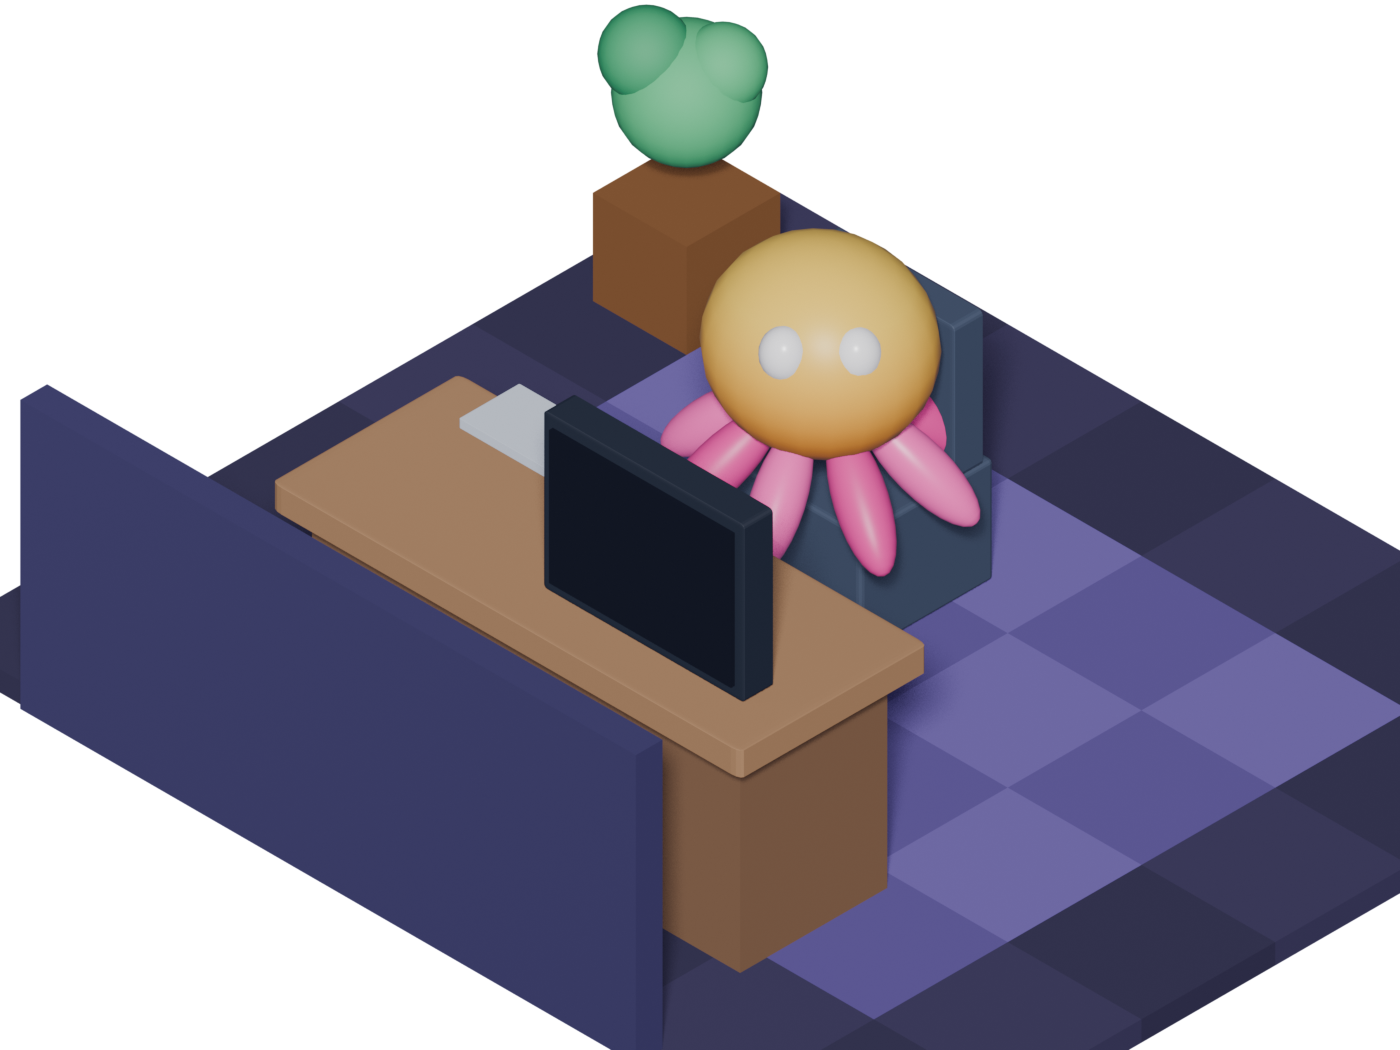
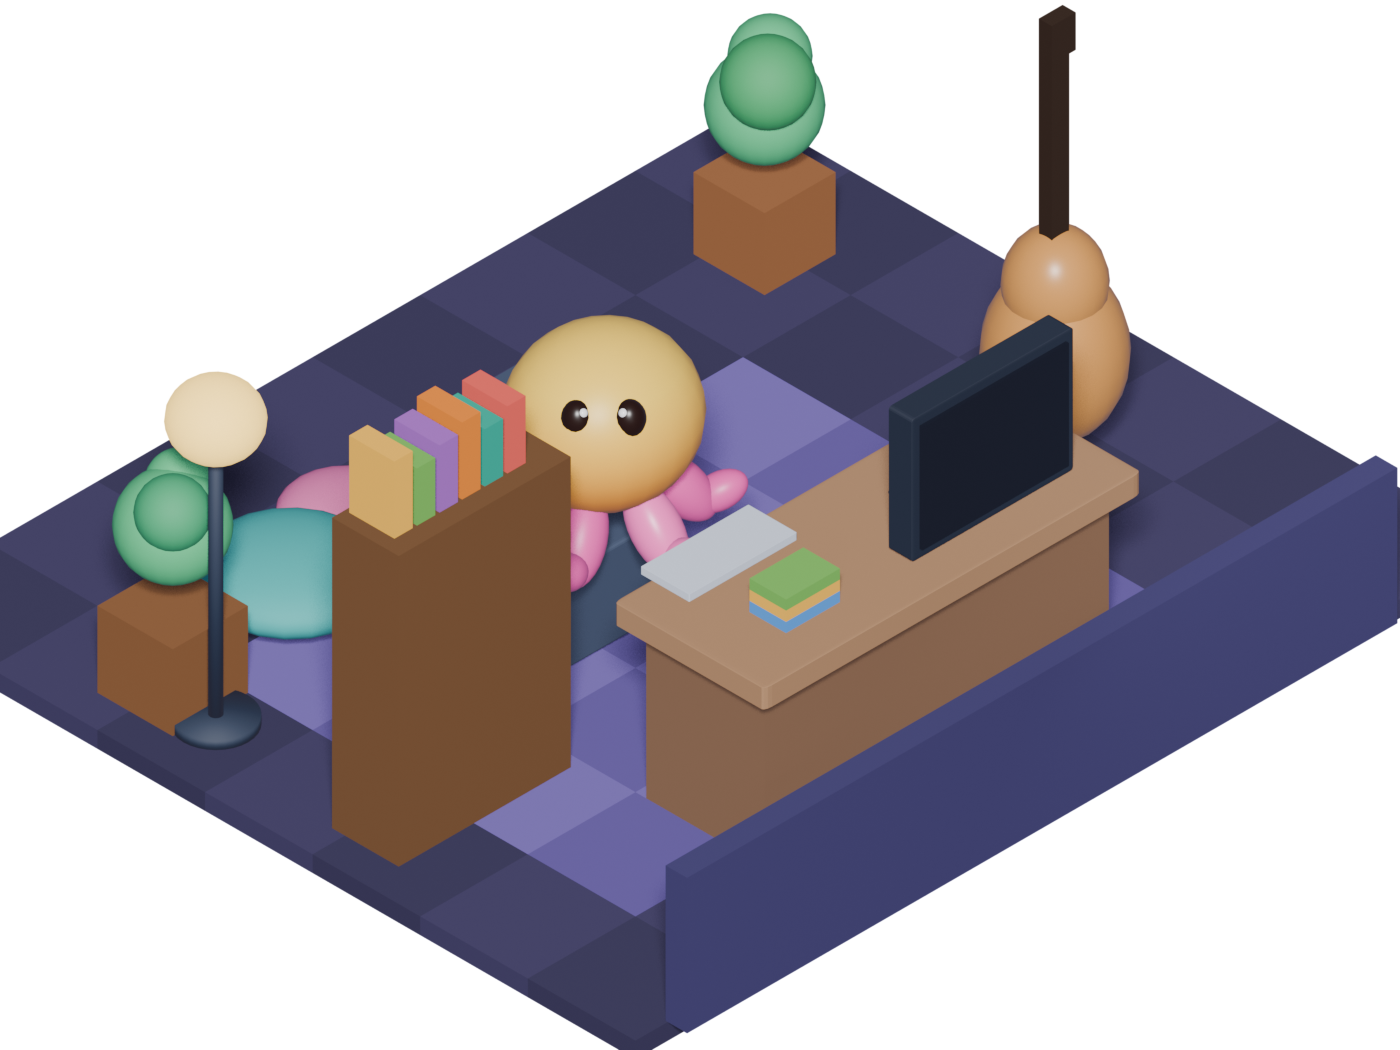
feat(webui): офис развёрнут + досуг-вещи + осьминог ближе к маскоту
По фидбэку Дмитрия:
- Комната «наоборот»: зеркальный изо-вид (CAM_OFFSET=(-9,-9,9)),
  низкий бэкдроп вместо высокой стены (не загораживает).
- Больше вещей для досуга: книжный шкаф с цветными книгами, гитара,
  торшер, два пуфика на круглом коврике, второе растение, стопка книг
  и кружка на столе. Всё свободностоящее в видимом интерьере (на стене
  не вешал — при зеркале она бы загораживала/смотрела бы наружу).
- Осьминог ближе к маскоту: голова крупнее, глаза тёмные с белым
  бликом (а не белые), 6 пухлых розовых щупалец с подкрученными
  кончиками (2 сегмента). Свет ярче (3 источника).
- Монитор/экран не двигал → coords.json пересчитан, живой оверлей
  (контент/глоу/мысли) совпадает с экраном в новом ракурсе.

Проверено Playwright: офис в WebUI, оверлей «браузер» лёг на монитор,
0 ошибок консоли. Статика — рестарт не нужен.

diff --git a/tools/office_blender.py b/tools/office_blender.py
@@ -105,21 +105,52 @@ def ellipsoid(name, loc, scale, quat, m):
     o.data.materials.append(m); bpy.ops.object.shade_smooth()
     return o
 
-# ── пол (воксельные плитки 7×6) + ковёр ──
+# направление камеры (зеркальный «наоборот» изо-вид) — задаётся ОДИН раз, юзают осьминог+камера
+CAM_OFFSET = Vector((-9, -9, 9))
+camdir = Vector(CAM_OFFSET); camdir.normalize()
+
+def cyl(name, x, y, z, r, h, m, rot=None):
+    bpy.ops.mesh.primitive_cylinder_add(radius=r, depth=h, location=(x, y, z))
+    o = bpy.context.active_object; o.name = name
+    if rot is not None:
+        o.rotation_euler = rot
+    o.data.materials.append(m); bpy.ops.object.shade_smooth()
+    return o
+
+# ── пол 8×7 + ковёр ──
 floorA, floorB = mat("floorA", "#3b3553"), mat("floorB", "#332f49")
 rugA, rugB = mat("rugA", "#6b5aa0"), mat("rugB", "#5a4b8a")
-for gx in range(7):
-    for gy in range(6):
+for gx in range(8):
+    for gy in range(7):
         rug = 1 <= gx <= 5 and 1 <= gy <= 4
         c = (rugA if (gx + gy) % 2 else rugB) if rug else (floorA if (gx + gy) % 2 else floorB)
         box(f"t{gx}_{gy}", gx, gy, -0.12 if rug else -0.15, 1, 1, 0.12 if rug else 0.15, c)
 
-# ── короткий бэкдроп-стенка с окном (без огромных стен — диорама на градиенте) ──
+# ── низкий бэкдроп с окном (фон, не загораживает) ──
 wall = mat("wall", "#3c3760")
-box("wallBack", 0.8, -0.18, 0, 4.6, 0.2, 2.0, wall)
-box("window", 3.5, -0.04, 0.7, 1.6, 0.08, 0.95, mat("win", "#8fc0f0", rough=0.2, emit=1.8))
-box("winBar", 4.28, -0.05, 0.7, 0.06, 0.1, 0.95, wall)
-box("winBarH", 3.5, -0.05, 1.17, 1.6, 0.1, 0.06, wall)
+box("wallBack", 0.3, -0.18, 0, 6.6, 0.2, 1.25, wall)
+box("window", 3.3, -0.04, 0.4, 1.5, 0.08, 0.68, mat("win", "#8fc0f0", rough=0.2, emit=1.8))
+box("winBarH", 3.3, -0.05, 0.72, 1.5, 0.1, 0.06, wall)
+
+bookCols = ["#e2574c", "#4a90d9", "#f6b73c", "#6ab04c", "#9b59b6", "#e67e22", "#16a085"]
+
+# ── книжный шкаф со множеством книг (свободностоящий, левый угол) ──
+shelfM = mat("shelf", "#6a4a2c")
+box("shelf", 0.3, 2.5, 0, 1.6, 0.62, 2.5, shelfM)
+for z in (0.9, 1.7):
+    box(f"shp{z}", 0.32, 2.52, z, 1.56, 0.6, 0.07, mat(f"shp{z}", "#50361c"))
+for r, z in enumerate((0.95, 1.75, 2.5)):          # 3 ряда книг (верхний — на крыше)
+    for i in range(6):
+        box(f"bk{r}_{i}", 0.42 + i * 0.21, 2.66, z, 0.17, 0.42, 0.46 + ((i + r) % 3) * 0.08,
+            mat(f"bk{r}{i}", bookCols[(i + r) % 7]))
+
+# ── гитара, прислонённая (правый угол интерьера) ──
+gBody = mat("guitarBody", "#c98a44", rough=0.35); gNeck = mat("guitarNeck", "#2f2113")
+ellipsoid("guitarBody", (6.5, 2.6, 1.0), (0.5, 0.5, 0.66), None, gBody)
+ellipsoid("guitarWaist", (6.5, 2.6, 1.55), (0.36, 0.36, 0.42), None, gBody)
+box("guitarNeck", 6.42, 2.55, 1.95, 0.16, 0.12, 1.5, gNeck)
+box("guitarHead", 6.4, 2.53, 3.4, 0.22, 0.12, 0.3, gNeck)
+cyl("guitarHole", 6.5, 2.6, 1.05, 0.13, 0.04, mat("ghole", "#3a2a18"), rot=(0, 0, 0))
 
 # ── стол ──
 deskBody, deskTop = mat("deskBody", "#7a5c44"), mat("deskTop", "#a07a57")
@@ -140,63 +171,93 @@ chair = mat("chair", "#3f4a5e")
 box("seat", 2.5, 3.3, 0, 1.1, 1.0, 0.78, chair, bevel=0.03)
 box("back", 2.5, 4.0, 0.78, 1.1, 0.22, 1.0, chair, bevel=0.03)
 
-# ── растение ──
+# ── растение №1 (на тумбе у стены) ──
 box("pot", 0.3, 4.6, 0, 0.7, 0.7, 0.7, mat("pot", "#7a5230"))
 g = mat("plant", "#48bb78")
 sphere("leaf1", 0.65, 4.95, 1.35, 0.4, g)
 sphere("leaf2", 0.5, 4.8, 1.6, 0.26, mat("plant2", "#38a169"))
 sphere("leaf3", 0.82, 5.05, 1.55, 0.24, g)
 
-# ── ОСЬМИНОГ (воксельный, сидит на стуле, лицом к камере) ──
-# ── ОСЬМИНОГ-МАСКОТ (как лого FreePalp): круглая оранжево-жёлтая голова + розовые щупальца ──
-hc = Vector((3.15, 3.45, 1.72))                          # центр головы
-headM = mat_grad("octoHead", "#ef8a28", "#ffd24a")       # низ оранжевый → верх жёлтый
-ellipsoid("octoHead", hc, (0.66, 0.62, 0.6), None, headM)
-# глаза + зрачки на ПОВЕРХНОСТИ головы, обращённой к камере (направление обзора (1,-1,1))
-camdir = Vector((1, -1, 1)); camdir.normalize()
-eyeM, pupM = mat("eyeW", "#ffffff", rough=0.28), mat("pupil", "#3a2416", rough=0.4)
-front = hc + camdir * 0.54 + Vector((0, 0, -0.06))     # точка на лбу/лице, к камере
-perp = Vector((1, 1, 0)); perp.normalize()             # перпендикуляр обзору → разводим глаза по экрану
-for side, nm in ((-1, "L"), (1, "R")):
-    ec = front + perp * (0.19 * side)
-    ellipsoid("eye" + nm, ec, (0.14, 0.14, 0.16), None, eyeM)
-    pc = ec + camdir * 0.06
-    sphere("pup" + nm, pc.x, pc.y, pc.z, 0.07, pupM)
-# щупальца — 8 розовых «лепестков» веером у основания головы
-armTop = mat("octoArmTop", "#ff5cb0", rough=0.38)
-armBot = mat("octoArmBot", "#e63a92", rough=0.44)
-baseZ = hc.z - 0.42
-for i in range(8):
-    a = math.radians(i * 45 + 22)
-    d = Vector((math.cos(a), math.sin(a), -0.85)); d.normalize()
-    q = d.to_track_quat("Z", "Y")
-    base = Vector((hc.x + 0.32 * math.cos(a), hc.y + 0.32 * math.sin(a), baseZ))
-    loc = base + d * 0.34
-    ellipsoid(f"arm{i}", loc, (0.15, 0.15, 0.42), q, armTop if i % 2 == 0 else armBot)
+# ── растение №2 (высокое, правый угол интерьера) ──
+box("pot2", 6.6, 5.4, 0, 0.66, 0.66, 0.66, mat("pot2b", "#8a5a36"))
+sphere("p2a", 6.93, 5.73, 1.2, 0.4, g)
+sphere("p2b", 6.78, 5.55, 1.55, 0.32, mat("plant3", "#3aa05f"))
+sphere("p2c", 7.05, 5.8, 1.5, 0.28, g)
 
-# ── камера (истинная изометрия) ──
-target = Vector((3.0, 2.7, 0.85))
+# ── торшер (напольная лампа, левый интерьер) ──
+lampM = mat("lampM", "#2d3748")
+cyl("lampBase", 0.6, 4.5, 0.04, 0.3, 0.08, lampM)
+cyl("lampPole", 0.6, 4.5, 1.3, 0.05, 2.5, lampM)
+ellipsoid("lampShade", (0.6, 4.5, 2.45), (0.34, 0.34, 0.3), None, mat("lampShade", "#ffd36a", emit=1.4))
+
+# ── зона отдыха: круглый коврик + два пуфика (front-left открытый пол) ──
+cyl("roundRug", 1.9, 5.1, -0.07, 1.1, 0.05, mat("roundRug", "#c2724f"))
+ellipsoid("cushion", (1.9, 5.1, 0.26), (0.66, 0.66, 0.26), None, mat("cushion", "#3aa6a0"))
+ellipsoid("cushion2", (2.7, 5.4, 0.2), (0.46, 0.46, 0.2), None, mat("cushion2", "#d96ba0"))
+
+# ── кружка на столе + стопка книг ──
+cyl("mug", 4.8, 1.55, 1.69, 0.13, 0.22, mat("mugM", "#e2574c"))
+cyl("mugIn", 4.8, 1.55, 1.74, 0.09, 0.18, mat("mugIn", "#7a2018"))
+for i in range(3):
+    box(f"deskBook{i}", 2.4, 1.0, 1.58 + i * 0.09, 0.5, 0.34, 0.09, mat(f"dbk{i}", bookCols[(i + 1) % 7]))
+
+# ── ОСЬМИНОГ-МАСКОТ (как лого FreePalp): круглая оранжево-жёлтая голова + розовые щупальца ──
+hc = Vector((3.15, 3.45, 1.74))                          # центр головы
+headM = mat_grad("octoHead", "#ef8a28", "#ffd24a")       # низ оранжевый → верх жёлтый
+ellipsoid("octoHead", hc, (0.70, 0.66, 0.64), None, headM)
+# глаза на ПОВЕРХНОСТИ головы, к камере: тёмные с белым бликом (как у маскота)
+eyeDark = mat("eyeDark", "#241208", rough=0.32)
+shineM = mat("eyeShine", "#ffffff", rough=0.2)
+front = hc + camdir * 0.58 + Vector((0, 0, -0.04))
+perp = Vector((camdir.y, -camdir.x, 0)); perp.normalize()   # горизонталь экрана
+up = Vector((0, 0, 1))
+for side, nm in ((-1, "L"), (1, "R")):
+    ec = front + perp * (0.17 * side)
+    ellipsoid("eye" + nm, ec, (0.12, 0.12, 0.15), None, eyeDark)
+    sh = ec + camdir * 0.07 + up * 0.05 - perp * (0.035 * side)
+    sphere("shine" + nm, sh.x, sh.y, sh.z, 0.035, shineM)
+# щупальца — 6 пухлых розовых, с подкрученными кончиками (2 сегмента)
+armTop = mat("octoArmTop", "#ff6bb6", rough=0.36)
+armBot = mat("octoArmBot", "#e84fa0", rough=0.42)
+baseZ = hc.z - 0.46
+for i in range(6):
+    a = math.radians(i * 60 + 28)
+    outw = Vector((math.cos(a), math.sin(a), 0))
+    base = Vector((hc.x + 0.34 * math.cos(a), hc.y + 0.34 * math.sin(a), baseZ))
+    d1 = (outw + Vector((0, 0, -1.15))); d1.normalize()      # сегмент вниз-наружу
+    s1 = base + d1 * 0.26
+    ellipsoid(f"arm{i}a", s1, (0.18, 0.18, 0.34), d1.to_track_quat("Z", "Y"), armTop if i % 2 == 0 else armBot)
+    tipBase = base + d1 * 0.46
+    d2 = (outw * 1.2 + Vector((0, 0, 0.55))); d2.normalize()  # кончик подкручен вверх
+    s2 = tipBase + d2 * 0.16
+    ellipsoid(f"arm{i}b", s2, (0.13, 0.13, 0.2), d2.to_track_quat("Z", "Y"), armTop if i % 2 == 0 else armBot)
+
+# ── камера (истинная изометрия, зеркальный «наоборот» вид; комната больше → шире охват) ──
+target = Vector((3.6, 3.0, 0.85))
 bpy.ops.object.empty_add(location=target)
 empty = bpy.context.active_object
-cam_data = bpy.data.cameras.new("Cam"); cam_data.type = "ORTHO"; cam_data.ortho_scale = 7.4
+cam_data = bpy.data.cameras.new("Cam"); cam_data.type = "ORTHO"; cam_data.ortho_scale = 9.2
 cam = bpy.data.objects.new("Cam", cam_data)
 bpy.context.collection.objects.link(cam)
-cam.location = target + Vector((9, -9, 9))
+cam.location = target + CAM_OFFSET
 tc = cam.constraints.new("TRACK_TO"); tc.target = empty
 tc.track_axis = "TRACK_NEGATIVE_Z"; tc.up_axis = "UP_Y"
 bpy.context.scene.camera = cam
 
 # ── свет ──
-sun_d = bpy.data.lights.new("Sun", "SUN"); sun_d.energy = 4.6; sun_d.angle = math.radians(10)
+sun_d = bpy.data.lights.new("Sun", "SUN"); sun_d.energy = 5.4; sun_d.angle = math.radians(10)
 sun = bpy.data.objects.new("Sun", sun_d); bpy.context.collection.objects.link(sun)
-sun.rotation_euler = (math.radians(50), math.radians(10), math.radians(35))
-fill_d = bpy.data.lights.new("Fill", "AREA"); fill_d.energy = 380; fill_d.size = 14
+sun.rotation_euler = (math.radians(48), math.radians(-12), math.radians(-35))   # светит со стороны новой камеры
+fill_d = bpy.data.lights.new("Fill", "AREA"); fill_d.energy = 600; fill_d.size = 16
 fill = bpy.data.objects.new("Fill", fill_d); bpy.context.collection.objects.link(fill)
-fill.location = (-3, -9, 7); fill.rotation_euler = (math.radians(55), 0, math.radians(-28))
+fill.location = (-9, -9, 8); fill.rotation_euler = (math.radians(52), 0, math.radians(28))
+fill2_d = bpy.data.lights.new("Fill2", "AREA"); fill2_d.energy = 320; fill2_d.size = 14
+fill2 = bpy.data.objects.new("Fill2", fill2_d); bpy.context.collection.objects.link(fill2)
+fill2.location = (10, -6, 7); fill2.rotation_euler = (math.radians(55), 0, math.radians(-70))
 # мир — лёгкая фиолетовая подсветка
 world = bpy.data.worlds.new("W"); bpy.context.scene.world = world; world.use_nodes = True
 bg = world.node_tree.nodes.get("Background")
-bg.inputs[0].default_value = (0.10, 0.09, 0.15, 1); bg.inputs[1].default_value = 1.2
+bg.inputs[0].default_value = (0.13, 0.12, 0.18, 1); bg.inputs[1].default_value = 1.7
 
 # ── рендер ──
 sc = bpy.context.scene